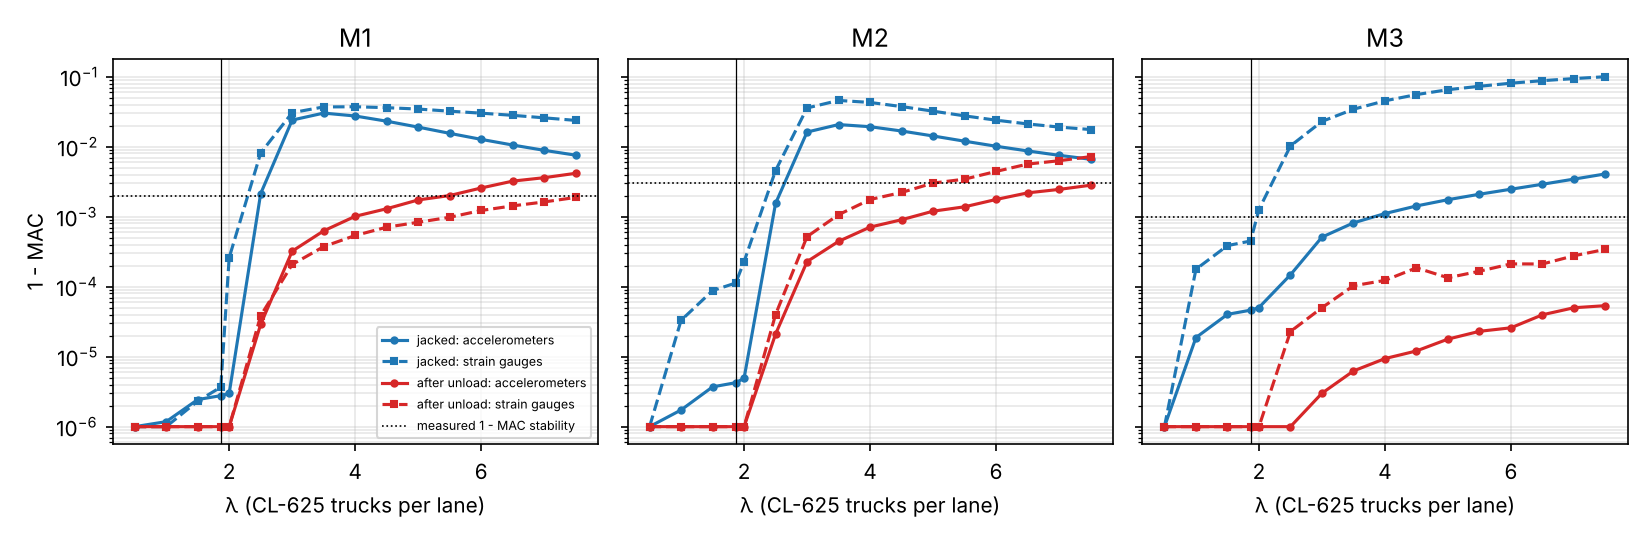
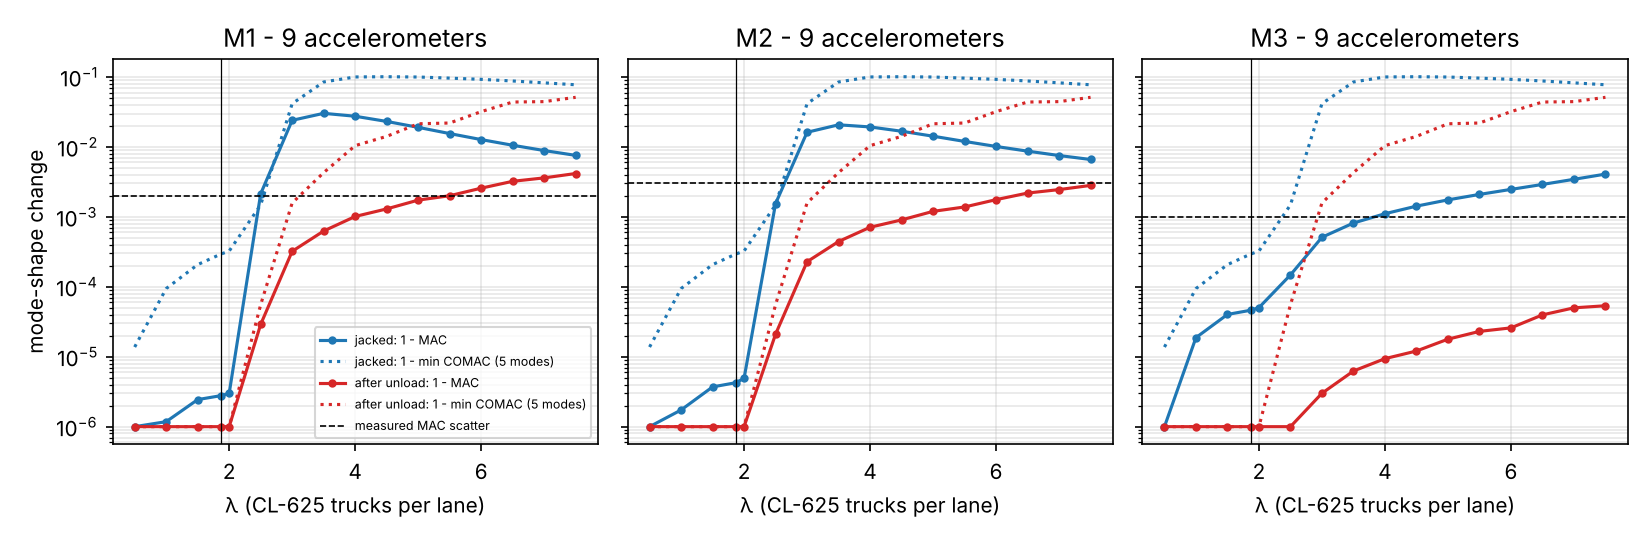
Limit states: accelerometer-only OMA outputs and a real-change vs OMA detection grid
- limit_states_shapes.png now shows accelerometer MAC/COMAC only, against the
  measured MAC scatter
- limit_states_strain_vs_oma.png: per load level, the real change (bending at
  the strain gauges) next to whether OMA frequencies / mode shapes detect it

Claude-Session: https://claude.ai/code/session_01RsKY2HZV2q9nJUfWH5iCmd

diff --git a/walker_road/limit_states.py b/walker_road/limit_states.py
@@ -636,11 +636,11 @@ def main():
             if case == "under load":
                 row["df_stiffness_pct"] = (100 * (ft - f_m) / f_m).tolist()
             rows.append(row)
-            print(f"lam {lam:5.2f} {case:18s} df% " + " ".join(f"{d:+6.2f}" for d in df[:5]) +
+            print(f"lam {lam:5.2f} {case:18s} OMA: df% " + " ".join(f"{d:+6.2f}" for d in df[:5]) +
                   "  MAC_acc " + " ".join(f"{x:.3f}" for x in sm["mac_acc"][:3]) +
-                  "  MAC_sg " + " ".join(f"{x:.3f}" for x in sm["mac_sg"][:3]) +
-                  "  dkappa% " + " ".join(f"{x:5.1f}" for x in sm["dkappa_max_pct"][:3]) +
-                  "  minCOMAC %.3f" % min(sm["comac_acc"]))
+                  "  minCOMAC %.3f" % min(sm["comac_acc"]) +
+                  "  | real change (strain gauges): dkappa% " +
+                  " ".join(f"{x:5.1f}" for x in sm["dkappa_max_pct"][:3]))
     mac_stab = {n: float(ms.MAC_STAB[ms.MODES.index(n)]) for n in names if n in ms.MODES}
     out["stage2"] = dict(names=names, families=[list(f) for f in fams], f_ref=f_ref.tolist(), rows=rows,
                          mac_stab_measured=mac_stab, accelerometers=sensors()["acc"].sensor.tolist(),
@@ -679,27 +679,70 @@ def plot(out):
     fig.tight_layout()
     fig.savefig("results/limit_states.png", dpi=150)
 
-    # mode-shape detectability: 1 - MAC at accelerometers and at strain gauges
+    # --- accelerometer OMA only: mode-shape change vs the measured MAC stability -------------
     fig, axs = plt.subplots(1, 3, figsize=(11, 3.6), sharey=True)
     for k, ax in enumerate(axs):
         n = st["names"][k]
         for c, col in (("jacked", "C0"), ("after unload", "C3")):
             rr = [r for r in st["rows"] if r["case"] == c and r["mac"][k] >= MAC_TRACK]
-            lam = [r["lam"] for r in rr]
-            ax.semilogy(lam, [max(1 - r["mac_acc"][k], 1e-6) for r in rr], "-o", ms=3, color=col,
-                        label=f"{c}: accelerometers")
-            ax.semilogy(lam, [max(1 - r["mac_sg"][k], 1e-6) for r in rr], "--s", ms=3, color=col,
-                        label=f"{c}: strain gauges")
+            ax.semilogy([r["lam"] for r in rr], [max(1 - r["mac_acc"][k], 1e-6) for r in rr], "-o", ms=3,
+                        color=col, label=f"{c}: 1 - MAC")
+            ax.semilogy([r["lam"] for r in rr], [max(1 - min(r["comac_acc"]), 1e-6) for r in rr], ":", color=col,
+                        label=f"{c}: 1 - min COMAC (5 modes)")
         if n in st["mac_stab_measured"]:
-            ax.axhline(1 - st["mac_stab_measured"][n], color="k", lw=0.8, ls=":", label="measured 1 - MAC stability")
+            ax.axhline(1 - st["mac_stab_measured"][n], color="k", lw=0.8, ls="--", label="measured MAC scatter")
         ax.axvline(min(out["stage1"]["lam_crack"]), color="k", lw=0.6)
-        ax.set_title(f"{n}")
+        ax.set_title(f"{n} - 9 accelerometers")
         ax.set_xlabel("λ (CL-625 trucks per lane)")
         ax.grid(alpha=0.3, which="both")
-    axs[0].set_ylabel("1 - MAC")
+    axs[0].set_ylabel("mode-shape change")
     axs[0].legend(fontsize=6)
     fig.tight_layout()
     fig.savefig("results/limit_states_shapes.png", dpi=150)
+
+    # --- does the structure change, and can accelerometer OMA see it? ----------------------
+    # grid: rows = indicators, columns = load level; cell value printed, colour = detectable
+    from matplotlib.colors import ListedColormap
+    STRAIN_MIN = 1.0                                    # % bending change counted as "real change"
+    fig, axs = plt.subplots(2, 1, figsize=(12, 6.2))
+    for ax, c in zip(axs, ("jacked", "after unload")):
+        rr = [r for r in st["rows"] if r["case"] == c]
+        lam = [r["lam"] for r in rr]
+        labels, vals, flags = [], [], []
+        labels.append("REAL CHANGE: girder bending\nat strain gauges (%)")
+        v = [max(r["dkappa_max_pct"][:3]) for r in rr]
+        vals.append(v)
+        flags.append([2 if x >= STRAIN_MIN else 0 for x in v])
+        for k in range(3):
+            n = st["names"][k]
+            labels.append(f"OMA frequency {n}\n|Δf| (%), limit {DETECT_PCT}%")
+            v = [abs(r["df_pct"][k]) for r in rr]
+            vals.append(v)
+            flags.append([1 if x >= DETECT_PCT else 0 for x in v])
+        for k in range(3):
+            n = st["names"][k]
+            thr = 1 - st["mac_stab_measured"].get(n, 0.999)
+            labels.append(f"OMA mode shape {n}\n1-MAC (x1000), limit {1000 * thr:.0f}")
+            v = [1000 * (1 - r["mac_acc"][k]) for r in rr]
+            vals.append(v)
+            flags.append([1 if x >= 1000 * thr else 0 for x in v])
+        ax.imshow(np.array(flags), cmap=ListedColormap(["0.9", "#7fc97f", "#fdc086"]), vmin=0, vmax=2, aspect="auto")
+        for i, row in enumerate(vals):
+            for j, x in enumerate(row):
+                ax.text(j, i, f"{abs(x):.1f}", ha="center", va="center", fontsize=6.5)
+        ax.set_yticks(range(len(labels)), labels, fontsize=7)
+        ax.set_xticks(range(len(lam)), [f"{x:g}" for x in lam], fontsize=7)
+        ax.axhline(0.5, color="k", lw=1.2)
+        j_cr = int(np.searchsorted(lam, min(out["stage1"]["lam_crack"])))
+        ax.axvline(j_cr - 0.5, color="k", lw=0.8, ls="--")
+        ax.set_title({"jacked": "Load ON (cracks open; load mass removed)",
+                      "after unload": "AFTER UNLOADING (cracks closed by prestress = permanent damage)"}[c],
+                     fontsize=9, loc="left")
+    axs[1].set_xlabel("λ = CL-625 trucks per lane (dashed line: first girder cracking)")
+    fig.text(0.01, 0.005, "orange = the structure has really changed (bending at the gauges > 1 %);  "
+             "green = accelerometer OMA can detect it;  grey = OMA cannot detect it", fontsize=8)
+    fig.tight_layout(rect=(0, 0.03, 1, 1))
+    fig.savefig("results/limit_states_strain_vs_oma.png", dpi=150)
 
 
 if __name__ == "__main__":
